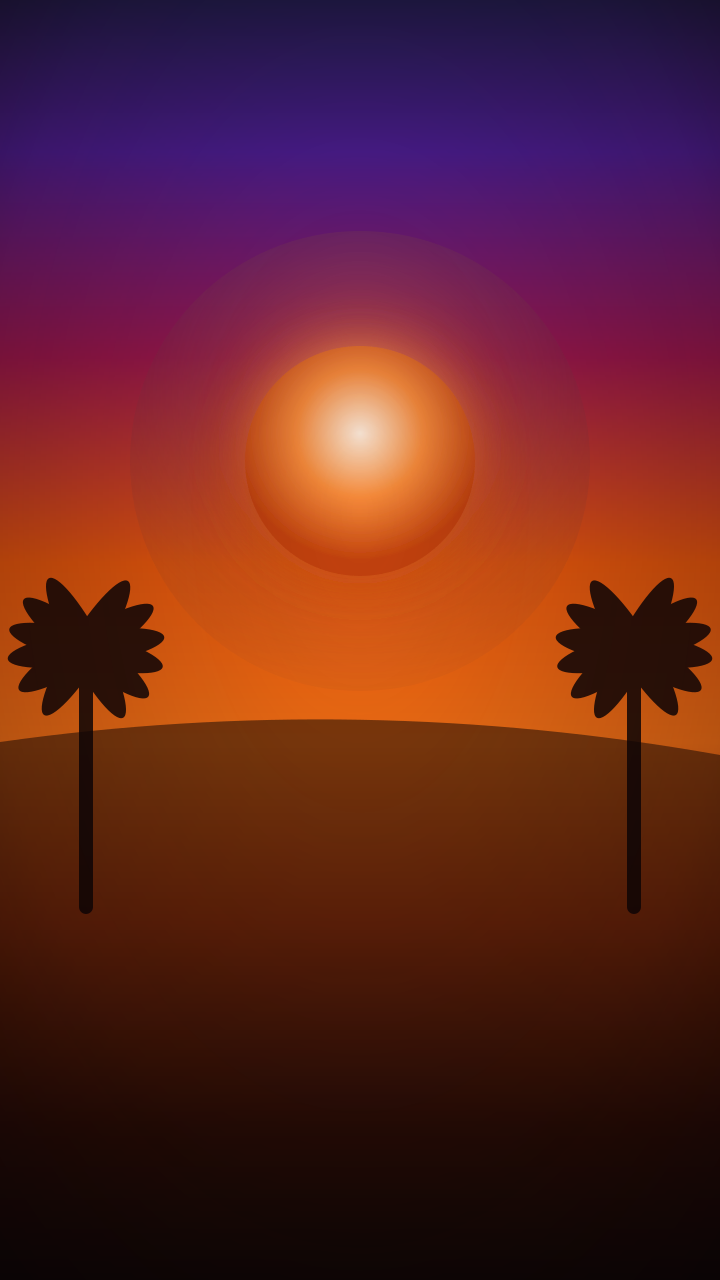
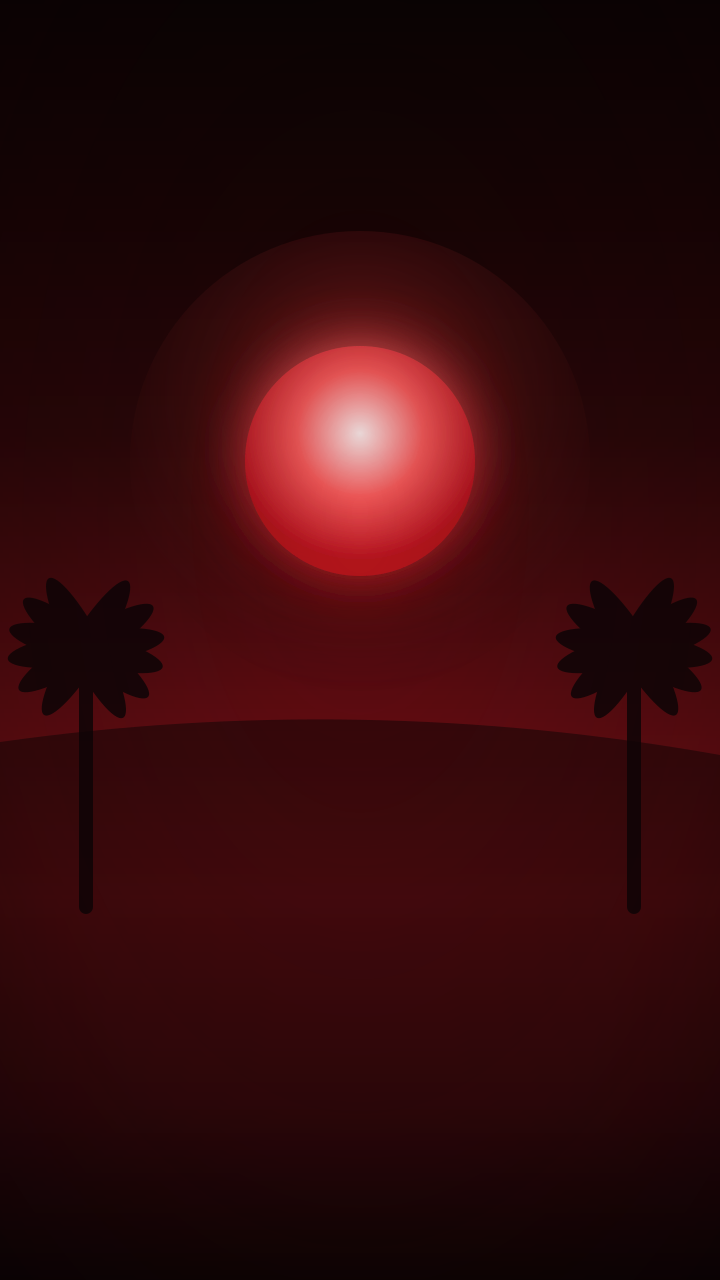
debug: wire gps order-link tracing and red-black branding
Publish run6 instrumentation for order-bound GPS tracing and align native branding assets with the lowrider red-black visual direction for upcoming OTA validation.

Made-with: Cursor

diff --git a/src/components/westcoast/ClientBootOverlay.tsx b/src/components/westcoast/ClientBootOverlay.tsx
@@ -8,7 +8,7 @@ import { FONT } from '@/constants/fonts';
 import { colors, spacing } from '@/constants/theme';
 
 const BOOT_CONTENT_OFFSET = spacing.lg;
-export const CLIENT_BOOT_VISUAL_VERSION = '2026-04-08-flyer-fullscreen-v1';
+export const CLIENT_BOOT_VISUAL_VERSION = '2026-04-13-flyer-cropped-premium-v2';
 type BootVariant = 'client' | 'gerant' | 'livreur';
 
 type Props = {
@@ -61,7 +61,9 @@ export function ClientBootOverlay({ visible, onDone, variant = 'client' }: Props
         <View style={styles.backTint} pointerEvents="none" />
         <View style={[styles.fill, { paddingTop: topPad }]}>
           <View style={styles.posterWrap} pointerEvents="none">
-            <Image source={CLIENT_BOOT_HERO} style={styles.poster} resizeMode="contain" />
+            <View style={styles.posterViewport}>
+              <Image source={CLIENT_BOOT_HERO} style={styles.posterCrop} resizeMode="cover" />
+            </View>
           </View>
           <View style={styles.bottomPanel}>
             <Text style={styles.roleText}>APK {VARIANT_LABEL[variant].toUpperCase()}</Text>
@@ -92,11 +94,21 @@ const styles = StyleSheet.create({
     justifyContent: 'center',
     paddingVertical: spacing.md,
   },
-  poster: {
+  posterViewport: {
     width: '100%',
     maxWidth: 420,
-    height: '100%',
-    maxHeight: 760,
+    aspectRatio: 9 / 16,
+    overflow: 'hidden',
+    borderRadius: 22,
+    borderWidth: 1,
+    borderColor: 'rgba(255,255,255,0.14)',
+    backgroundColor: 'rgba(0,0,0,0.25)',
+  },
+  posterCrop: {
+    width: '132%',
+    height: '124%',
+    marginLeft: '-16%',
+    marginTop: '-10%',
   },
   bottomPanel: {
     alignItems: 'center',

diff --git a/app/_layout.tsx b/app/_layout.tsx
@@ -142,10 +142,16 @@ export default function RootLayout() {
     // Client: ne jamais afficher un livreur "global" sans commande suivie explicite,
     // sinon le suivi paraît irréel (position d'une autre course).
     if (variant === 'client' && !driverOrderId) {
+      // #region agent log
+      fetch('http://127.0.0.1:7887/ingest/454edf30-5b80-46d0-acc5-a07a792b6f42',{method:'POST',headers:{'Content-Type':'application/json','X-Debug-Session-Id':'248b3d'},body:JSON.stringify({sessionId:'248b3d',runId:'run6',hypothesisId:'H3',location:'app/_layout.tsx:driverEffect:noTrackedOrder',message:'client has no tracked order for driver subscribe',data:{variant,driverOrderId},timestamp:Date.now()})}).catch(()=>{});
+      // #endregion
       useHuskoStore.setState({ driver: null, driverHeading: 0 });
       return;
     }
     const unsubDriver = subscribeToRemoteDriver(driverOrderId, (driver, driverHeading) => {
+      // #region agent log
+      fetch('http://127.0.0.1:7887/ingest/454edf30-5b80-46d0-acc5-a07a792b6f42',{method:'POST',headers:{'Content-Type':'application/json','X-Debug-Session-Id':'248b3d'},body:JSON.stringify({sessionId:'248b3d',runId:'run6',hypothesisId:'H4',location:'app/_layout.tsx:subscribeToRemoteDriver:callback',message:'driver callback delivered to store',data:{variant,driverOrderId,hasDriver:!!driver,driverHeading},timestamp:Date.now()})}).catch(()=>{});
+      // #endregion
       useHuskoStore.setState({ driver, driverHeading });
     });
     return () => {

diff --git a/src/stores/useHuskoStore.ts b/src/stores/useHuskoStore.ts
@@ -331,6 +331,9 @@ export const useHuskoStore = create<State>()(
 
       setDriver: (pos, heading = 0) => {
         const trackedOrderId = pickTrackedDriverOrderId(get().orders);
+        // #region agent log
+        fetch('http://127.0.0.1:7887/ingest/454edf30-5b80-46d0-acc5-a07a792b6f42',{method:'POST',headers:{'Content-Type':'application/json','X-Debug-Session-Id':'248b3d'},body:JSON.stringify({sessionId:'248b3d',runId:'run6',hypothesisId:'H1',location:'src/stores/useHuskoStore.ts:setDriver',message:'setDriver called with tracked order',data:{trackedOrderId,hasPos:!!pos,heading,ordersActive:get().orders.filter((o)=>o.status!=='delivered'&&o.status!=='cancelled').slice(0,3).map((o)=>({id:o.id,status:o.status}))},timestamp:Date.now()})}).catch(()=>{});
+        // #endregion
         set({ driver: pos, driverHeading: heading });
         remotePushDriverDebounced(pos, heading, trackedOrderId);
       },

diff --git a/src/services/firebaseRemote.ts b/src/services/firebaseRemote.ts
@@ -225,6 +225,9 @@ function remotePushDriverNow(pos: LatLng | null, heading: number, orderId: strin
   const firestore = ensureDb();
   if (!firestore) return Promise.resolve();
   const normalizedOrderId = orderId && orderId.trim().length > 0 ? orderId.trim() : null;
+  // #region agent log
+  fetch('http://127.0.0.1:7887/ingest/454edf30-5b80-46d0-acc5-a07a792b6f42',{method:'POST',headers:{'Content-Type':'application/json','X-Debug-Session-Id':'248b3d'},body:JSON.stringify({sessionId:'248b3d',runId:'run6',hypothesisId:'H2',location:'src/services/firebaseRemote.ts:remotePushDriverNow',message:'pushing driver snapshot',data:{orderId:normalizedOrderId,hasPos:!!pos,heading},timestamp:Date.now()})}).catch(()=>{});
+  // #endregion
   const payload: Record<string, unknown> = {
     lat: pos?.latitude ?? null,
     lng: pos?.longitude ?? null,
